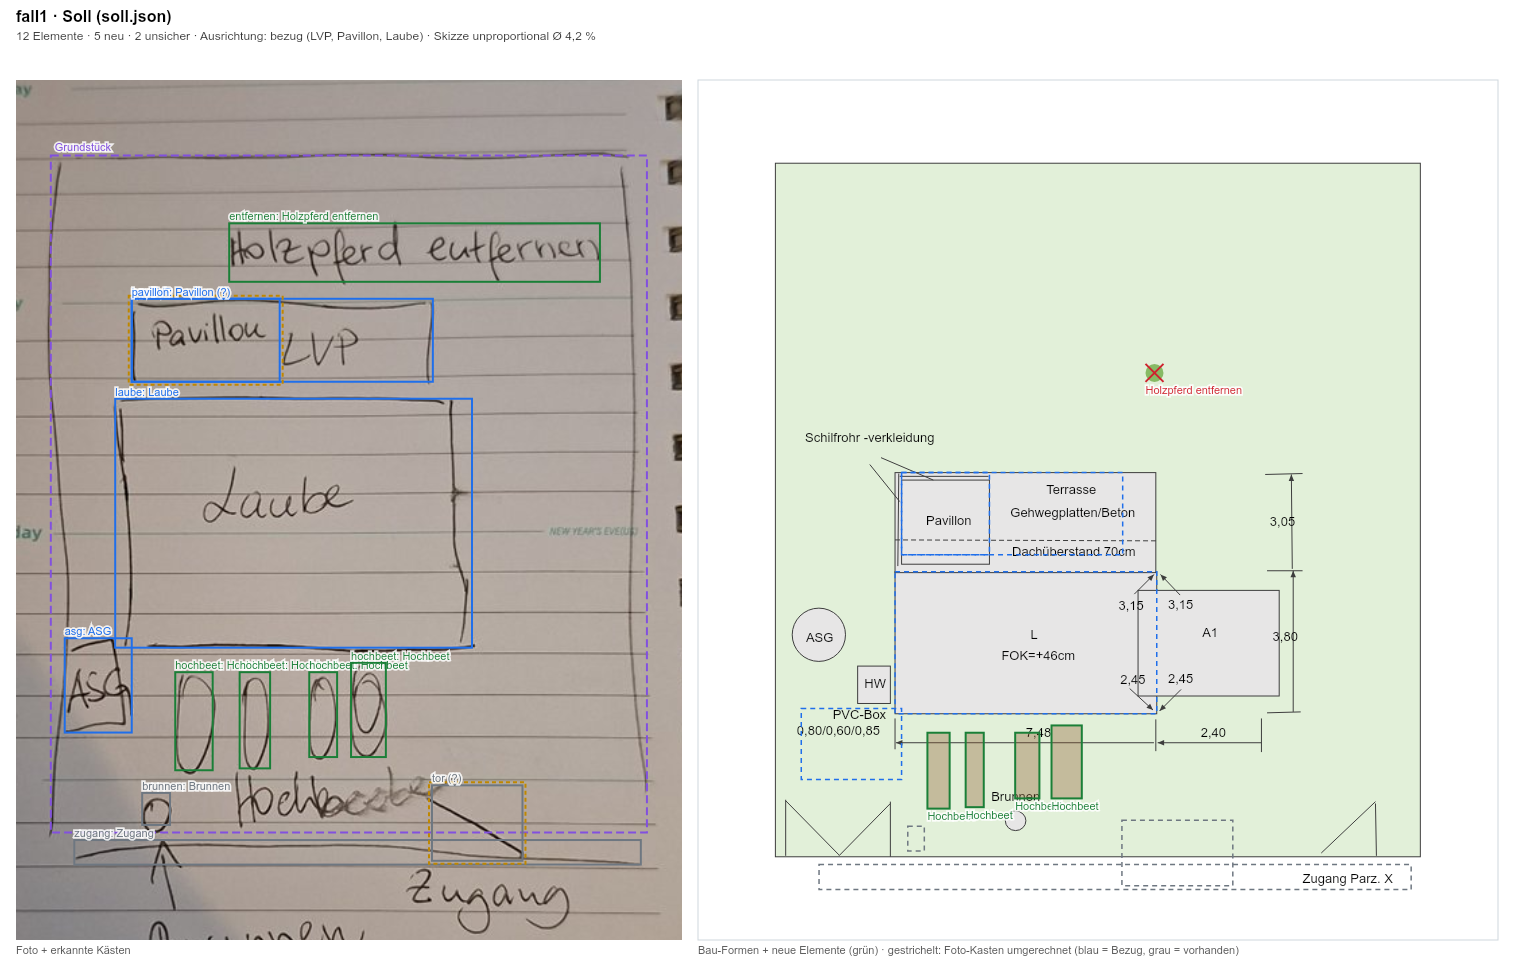
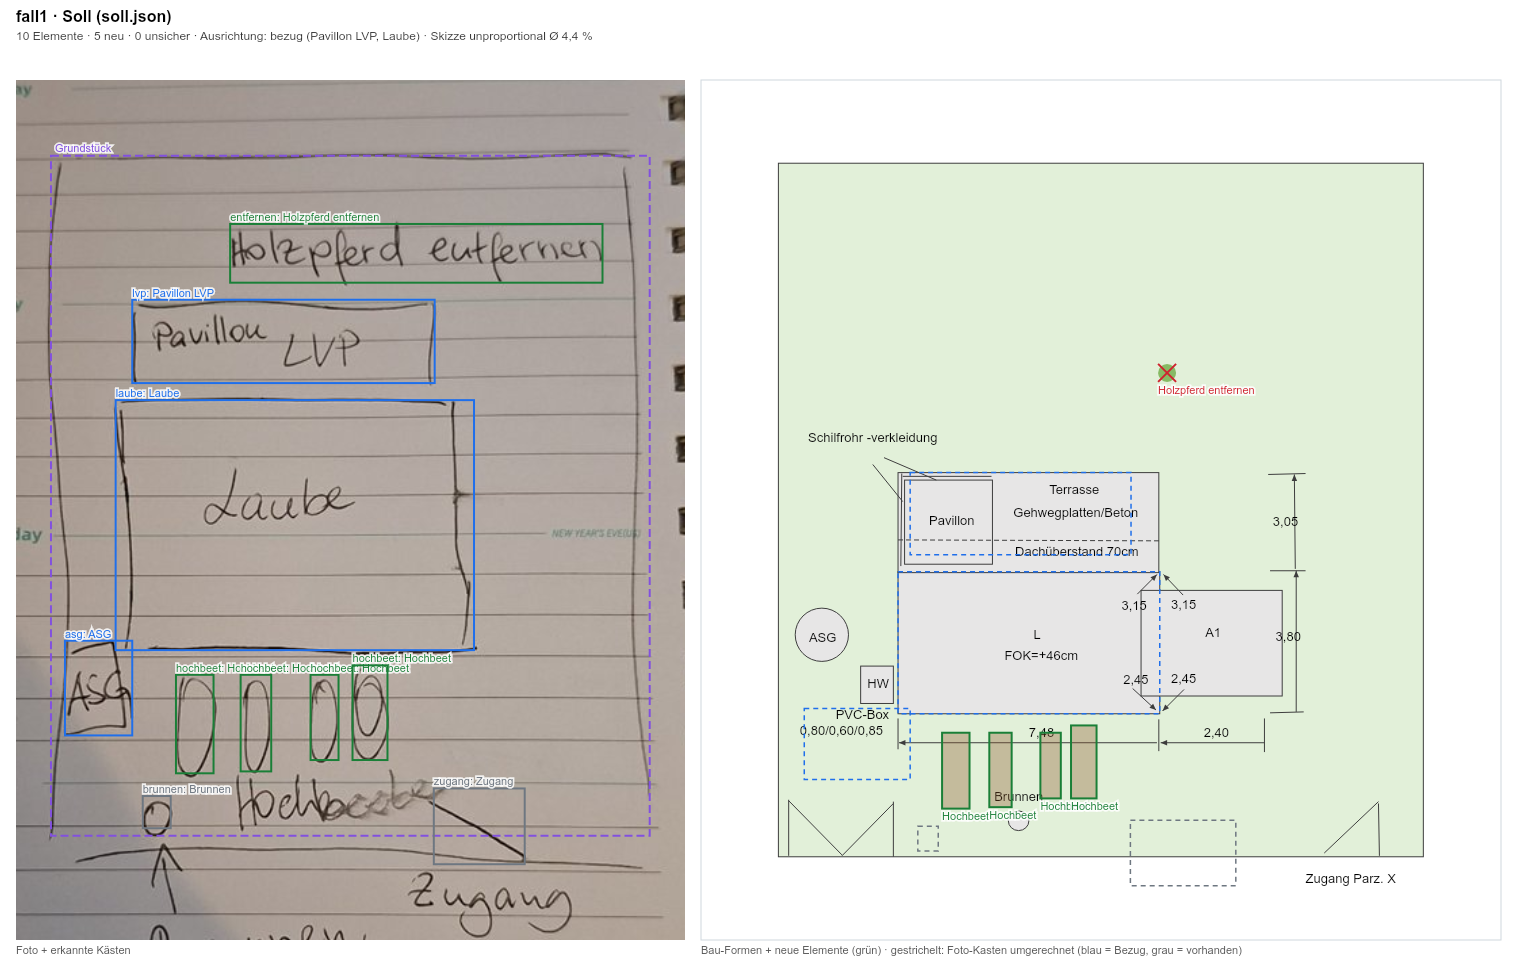
KI-Test Fall 1: soll.json nach Nachtrag (Grenze, Zugang, Pavillon LVP)

diff --git a/tools/ki-test/ergebnis-skizze.html b/tools/ki-test/ergebnis-skizze.html
@@ -15,9 +15,9 @@ ul{margin:6px 0 0;padding-left:20px;color:var(--fg)}li{margin:2px 0}
 .legende span{display:inline-block;margin-right:14px}.legende i{display:inline-block;width:12px;height:12px;margin-right:4px;vertical-align:-1px}
 </style></head><body>
 <h1>Skizzen-Testlauf (Assistent B)</h1>
-<p class="meta">Stand: 18.10.2026, 00:05:45 · Modellkette: gemini-3.8-flash → gemini-3.7-flash → gemini-3.6-flash → gemini-3.5-flash → gemini-3.5-flash-lite → gemini-3.1-flash-lite → gemini-3.1-flash-lite-preview → gemini-3-flash-preview · Prompt <code>skizze/prompt-skizze.md</code> (3115 Zeichen) · erzeugt mit <code>npm run ki-test-skizze</code></p>
+<p class="meta">Stand: 18.10.2026, 01:02:35 · Modellkette: gemini-3.8-flash → gemini-3.7-flash → gemini-3.6-flash → gemini-3.5-flash → gemini-3.5-flash-lite → gemini-3.1-flash-lite → gemini-3.1-flash-lite-preview → gemini-3-flash-preview · Prompt <code>skizze/prompt-skizze.md</code> (3115 Zeichen) · erzeugt mit <code>npm run ki-test-skizze</code></p>
 <p class="legende"><span><i style="background:#1f6feb"></i>Bezugsgebäude</span><span><i style="background:#6e7781"></i>schon in den Bau-Formen</span><span><i style="background:#1a7f37"></i>neu</span><span><i style="background:#bf8700"></i>unsicher (gestrichelt)</span><span><i style="background:#8250df"></i>Grundstücksrahmen</span></p>
 <p class="meta">gefunden = Soll-Elemente mit passendem Ist-Kasten (Typ ähnlich, Mittelpunkt nah) · Ø Abstand = Mittelpunkte im Foto (0–1000) · neu richtig = neu/vorhanden wie im Soll · Lagefehler neu = Abstand der neuen Elemente im Excel-Blatt zur Lage aus dem Soll, in % der Grundstücksgröße · „Skizze unproportional“ = Abweichung der Bezugsgebäude von einer linearen Abbildung (die App nutzt stückweise lineare Abbildung).</p>
-<div class="tab"><table><thead><tr><th>Fall</th><th>Modell</th><th>Antwort von</th><th>Zeit s</th><th>Elemente</th><th>gefunden</th><th>zusätzl.</th><th>Typ gleich</th><th>Beschr. ok</th><th>Ø Abstand</th><th>Ø IoU</th><th>unsicher Ist/Soll (getr.)</th><th>neu richtig</th><th>Lagefehler neu</th><th>Ausrichtung</th><th>Vermerk</th></tr></thead><tbody><tr><td>fall1</td><td>gemini-3.8-flash</td><td>=</td><td>27,5</td><td>10</td><td>10/12 (83 %)</td><td>0</td><td>9/10</td><td>10/10</td><td>4</td><td>0,84</td><td>4/2 (0)</td><td>10/10</td><td>2,0 %</td><td>bezug, Ø 4,5 %</td><td></td></tr><tr><td>fall1</td><td>gemini-3.7-flash</td><td>=</td><td>12,2</td><td>10</td><td>10/12 (83 %)</td><td>0</td><td>9/10</td><td>10/10</td><td>3</td><td>0,85</td><td>4/2 (0)</td><td>10/10</td><td>2,0 %</td><td>bezug, Ø 4,4 %</td><td></td></tr><tr><td>fall1</td><td>gemini-3.6-flash</td><td>=</td><td>11,1</td><td>10</td><td>10/12 (83 %)</td><td>0</td><td>9/10</td><td>10/10</td><td>5</td><td>0,80</td><td>0/2 (0)</td><td>10/10</td><td>2,3 %</td><td>bezug, Ø 4,2 %</td><td></td></tr><tr><td>fall1</td><td>gemini-3.5-flash</td><td>=</td><td>13,3</td><td>10</td><td>10/12 (83 %)</td><td>0</td><td>9/10</td><td>10/10</td><td>8</td><td>0,72</td><td>0/2 (0)</td><td>10/10</td><td>2,0 %</td><td>bezug, Ø 4,3 %</td><td></td></tr><tr><td>fall1</td><td>gemini-3.5-flash-lite</td><td>=</td><td>2,7</td><td>11</td><td>10/12 (83 %)</td><td>1</td><td>9/10</td><td>7/10</td><td>37</td><td>0,21</td><td>1/2 (0)</td><td>10/10</td><td>5,4 %</td><td>bezug, Ø 4,1 %</td><td></td></tr><tr><td>fall1</td><td>gemini-3.1-flash-lite</td><td>=</td><td>4,6</td><td>10</td><td>10/12 (83 %)</td><td>0</td><td>9/10</td><td>10/10</td><td>38</td><td>0,27</td><td>0/2 (0)</td><td>10/10</td><td>2,4 %</td><td>bezug, Ø 4,3 %</td><td></td></tr><tr><td>fall1</td><td>gemini-3.1-flash-lite-preview</td><td>=</td><td>2,8</td><td>10</td><td>10/12 (83 %)</td><td>0</td><td>9/10</td><td>10/10</td><td>26</td><td>0,47</td><td>0/2 (0)</td><td>10/10</td><td>2,9 %</td><td>bezug, Ø 4,5 %</td><td></td></tr><tr><td>fall1</td><td>gemini-3-flash-preview</td><td>=</td><td>12,8</td><td>10</td><td>10/12 (83 %)</td><td>0</td><td>9/10</td><td>10/10</td><td>21</td><td>0,61</td><td>0/2 (0)</td><td>10/10</td><td>2,6 %</td><td>bezug, Ø 4,1 %</td><td></td></tr></tbody></table></div>
-<h2>fall1</h2><p>Formen: <code>bau-formen.json</code></p><figure><figcaption><b>Soll</b> (soll.json, Entwurf)</figcaption><a href="ergebnis-skizze/fall1/_soll.png"><img src="ergebnis-skizze/fall1/_soll.png" alt="Soll"></a></figure><figure><figcaption><b>gemini-3.8-flash</b></figcaption><a href="ergebnis-skizze/fall1/gemini-3.8-flash.png"><img src="ergebnis-skizze/fall1/gemini-3.8-flash.png" loading="lazy" alt="Vergleich gemini-3.8-flash"></a><ul><li><b>Fehlt:</b> pavillon „Pavillon“, zugang „Zugang“</li><li><b>Typ:</b> tor → zugang</li><li><b>Ausrichtung:</b> Bezug Pavillon LVP ↔ Terrasse: nur y genutzt (deckungsgleich mit oder widersprüchlich zu größerem Gebäude); Bezug ASG ↔ ASG: keine Kante genutzt (deckungsgleich mit oder widersprüchlich zu größerem Gebäude)</li></ul></figure><figure><figcaption><b>gemini-3.7-flash</b></figcaption><a href="ergebnis-skizze/fall1/gemini-3.7-flash.png"><img src="ergebnis-skizze/fall1/gemini-3.7-flash.png" loading="lazy" alt="Vergleich gemini-3.7-flash"></a><ul><li><b>Fehlt:</b> pavillon „Pavillon“, zugang „Zugang“</li><li><b>Typ:</b> tor → zugang</li><li><b>Ausrichtung:</b> Bezug Pavillon LVP ↔ Terrasse: nur y genutzt (deckungsgleich mit oder widersprüchlich zu größerem Gebäude); Bezug ASG ↔ ASG: keine Kante genutzt (deckungsgleich mit oder widersprüchlich zu größerem Gebäude)</li></ul></figure><figure><figcaption><b>gemini-3.6-flash</b></figcaption><a href="ergebnis-skizze/fall1/gemini-3.6-flash.png"><img src="ergebnis-skizze/fall1/gemini-3.6-flash.png" loading="lazy" alt="Vergleich gemini-3.6-flash"></a><ul><li><b>Fehlt:</b> pavillon „Pavillon“, zugang „Zugang“</li><li><b>Typ:</b> tor → zugang</li><li><b>Ausrichtung:</b> Bezug Pavillon LVP ↔ Terrasse: nur y genutzt (deckungsgleich mit oder widersprüchlich zu größerem Gebäude); Bezug ASG ↔ ASG: keine Kante genutzt (deckungsgleich mit oder widersprüchlich zu größerem Gebäude)</li></ul></figure><figure><figcaption><b>gemini-3.5-flash</b></figcaption><a href="ergebnis-skizze/fall1/gemini-3.5-flash.png"><img src="ergebnis-skizze/fall1/gemini-3.5-flash.png" loading="lazy" alt="Vergleich gemini-3.5-flash"></a><ul><li><b>Fehlt:</b> pavillon „Pavillon“, zugang „Zugang“</li><li><b>Typ:</b> tor → zugang</li><li><b>Ausrichtung:</b> Bezug Pavillon LVP ↔ Terrasse: nur y genutzt (deckungsgleich mit oder widersprüchlich zu größerem Gebäude); Bezug ASG ↔ ASG: keine Kante genutzt (deckungsgleich mit oder widersprüchlich zu größerem Gebäude)</li></ul></figure><figure><figcaption><b>gemini-3.5-flash-lite</b></figcaption><a href="ergebnis-skizze/fall1/gemini-3.5-flash-lite.png"><img src="ergebnis-skizze/fall1/gemini-3.5-flash-lite.png" loading="lazy" alt="Vergleich gemini-3.5-flash-lite"></a><ul><li><b>Fehlt:</b> lvp „LVP“, zugang „Zugang“</li><li><b>Zusätzlich:</b> hochbeet „“</li><li><b>Typ:</b> tor → zugang</li><li><b>Ausrichtung:</b> Bezug Pavillon LVP ↔ Terrasse: nur y genutzt (deckungsgleich mit oder widersprüchlich zu größerem Gebäude); Bezug ASG ↔ ASG: keine Kante genutzt (deckungsgleich mit oder widersprüchlich zu größerem Gebäude)</li></ul></figure><figure><figcaption><b>gemini-3.1-flash-lite</b></figcaption><a href="ergebnis-skizze/fall1/gemini-3.1-flash-lite.png"><img src="ergebnis-skizze/fall1/gemini-3.1-flash-lite.png" loading="lazy" alt="Vergleich gemini-3.1-flash-lite"></a><ul><li><b>Fehlt:</b> lvp „LVP“, zugang „Zugang“</li><li><b>Typ:</b> tor → zugang</li><li><b>Ausrichtung:</b> Bezug Pavillon LVP ↔ Terrasse: nur y genutzt (deckungsgleich mit oder widersprüchlich zu größerem Gebäude); Bezug ASG ↔ ASG: keine Kante genutzt (deckungsgleich mit oder widersprüchlich zu größerem Gebäude)</li></ul></figure><figure><figcaption><b>gemini-3.1-flash-lite-preview</b></figcaption><a href="ergebnis-skizze/fall1/gemini-3.1-flash-lite-preview.png"><img src="ergebnis-skizze/fall1/gemini-3.1-flash-lite-preview.png" loading="lazy" alt="Vergleich gemini-3.1-flash-lite-preview"></a><ul><li><b>Fehlt:</b> lvp „LVP“, zugang „Zugang“</li><li><b>Typ:</b> tor → zugang</li><li><b>Ausrichtung:</b> Bezug Pavillon LVP ↔ Terrasse: nur y genutzt (deckungsgleich mit oder widersprüchlich zu größerem Gebäude); Bezug ASG ↔ ASG: keine Kante genutzt (deckungsgleich mit oder widersprüchlich zu größerem Gebäude)</li></ul></figure><figure><figcaption><b>gemini-3-flash-preview</b></figcaption><a href="ergebnis-skizze/fall1/gemini-3-flash-preview.png"><img src="ergebnis-skizze/fall1/gemini-3-flash-preview.png" loading="lazy" alt="Vergleich gemini-3-flash-preview"></a><ul><li><b>Fehlt:</b> lvp „LVP“, zugang „Zugang“</li><li><b>Typ:</b> tor → zugang</li><li><b>Ausrichtung:</b> Bezug Pavillon LVP ↔ Terrasse: nur y genutzt (deckungsgleich mit oder widersprüchlich zu größerem Gebäude); Bezug ASG ↔ ASG: keine Kante genutzt (deckungsgleich mit oder widersprüchlich zu größerem Gebäude)</li></ul></figure>
+<div class="tab"><table><thead><tr><th>Fall</th><th>Modell</th><th>Antwort von</th><th>Zeit s</th><th>Elemente</th><th>gefunden</th><th>zusätzl.</th><th>Typ gleich</th><th>Beschr. ok</th><th>Ø Abstand</th><th>Ø IoU</th><th>unsicher Ist/Soll (getr.)</th><th>neu richtig</th><th>Lagefehler neu</th><th>Ausrichtung</th><th>Vermerk</th></tr></thead><tbody><tr><td>fall1</td><td>gemini-3.8-flash</td><td>=</td><td>27,5</td><td>10</td><td>10/10 (100 %)</td><td>0</td><td>10/10</td><td>10/10</td><td>4</td><td>0,84</td><td>4/0 (0)</td><td>10/10</td><td>0,3 %</td><td>bezug, Ø 4,5 %</td><td></td></tr><tr><td>fall1</td><td>gemini-3.7-flash</td><td>=</td><td>12,2</td><td>10</td><td>10/10 (100 %)</td><td>0</td><td>10/10</td><td>10/10</td><td>3</td><td>0,85</td><td>4/0 (0)</td><td>10/10</td><td>0,6 %</td><td>bezug, Ø 4,4 %</td><td></td></tr><tr><td>fall1</td><td>gemini-3.6-flash</td><td>=</td><td>11,1</td><td>10</td><td>10/10 (100 %)</td><td>0</td><td>10/10</td><td>10/10</td><td>5</td><td>0,80</td><td>0/0 (0)</td><td>10/10</td><td>1,0 %</td><td>bezug, Ø 4,2 %</td><td></td></tr><tr><td>fall1</td><td>gemini-3.5-flash</td><td>=</td><td>13,3</td><td>10</td><td>10/10 (100 %)</td><td>0</td><td>10/10</td><td>10/10</td><td>8</td><td>0,72</td><td>0/0 (0)</td><td>10/10</td><td>0,9 %</td><td>bezug, Ø 4,3 %</td><td></td></tr><tr><td>fall1</td><td>gemini-3.5-flash-lite</td><td>=</td><td>2,7</td><td>11</td><td>9/10 (90 %)</td><td>2</td><td>9/9</td><td>6/9</td><td>32</td><td>0,22</td><td>1/0 (0)</td><td>9/9</td><td>5,2 %</td><td>bezug, Ø 4,1 %</td><td></td></tr><tr><td>fall1</td><td>gemini-3.1-flash-lite</td><td>=</td><td>4,6</td><td>10</td><td>9/10 (90 %)</td><td>1</td><td>9/9</td><td>9/9</td><td>33</td><td>0,27</td><td>0/0 (0)</td><td>9/9</td><td>1,8 %</td><td>bezug, Ø 4,3 %</td><td></td></tr><tr><td>fall1</td><td>gemini-3.1-flash-lite-preview</td><td>=</td><td>2,8</td><td>10</td><td>9/10 (90 %)</td><td>1</td><td>9/9</td><td>9/9</td><td>20</td><td>0,47</td><td>0/0 (0)</td><td>9/9</td><td>2,4 %</td><td>bezug, Ø 4,5 %</td><td></td></tr><tr><td>fall1</td><td>gemini-3-flash-preview</td><td>=</td><td>12,8</td><td>10</td><td>9/10 (90 %)</td><td>1</td><td>9/9</td><td>9/9</td><td>13</td><td>0,63</td><td>0/0 (0)</td><td>9/9</td><td>1,0 %</td><td>bezug, Ø 4,1 %</td><td></td></tr></tbody></table></div>
+<h2>fall1</h2><p>Formen: <code>bau-formen.json</code></p><figure><figcaption><b>Soll</b> (soll.json, Entwurf)</figcaption><a href="ergebnis-skizze/fall1/_soll.png"><img src="ergebnis-skizze/fall1/_soll.png" alt="Soll"></a></figure><figure><figcaption><b>gemini-3.8-flash</b></figcaption><a href="ergebnis-skizze/fall1/gemini-3.8-flash.png"><img src="ergebnis-skizze/fall1/gemini-3.8-flash.png" loading="lazy" alt="Vergleich gemini-3.8-flash"></a><ul><li><b>Ausrichtung:</b> Bezug Pavillon LVP ↔ Terrasse: nur y genutzt (deckungsgleich mit oder widersprüchlich zu größerem Gebäude); Bezug ASG ↔ ASG: keine Kante genutzt (deckungsgleich mit oder widersprüchlich zu größerem Gebäude)</li></ul></figure><figure><figcaption><b>gemini-3.7-flash</b></figcaption><a href="ergebnis-skizze/fall1/gemini-3.7-flash.png"><img src="ergebnis-skizze/fall1/gemini-3.7-flash.png" loading="lazy" alt="Vergleich gemini-3.7-flash"></a><ul><li><b>Ausrichtung:</b> Bezug Pavillon LVP ↔ Terrasse: nur y genutzt (deckungsgleich mit oder widersprüchlich zu größerem Gebäude); Bezug ASG ↔ ASG: keine Kante genutzt (deckungsgleich mit oder widersprüchlich zu größerem Gebäude)</li></ul></figure><figure><figcaption><b>gemini-3.6-flash</b></figcaption><a href="ergebnis-skizze/fall1/gemini-3.6-flash.png"><img src="ergebnis-skizze/fall1/gemini-3.6-flash.png" loading="lazy" alt="Vergleich gemini-3.6-flash"></a><ul><li><b>Ausrichtung:</b> Bezug Pavillon LVP ↔ Terrasse: nur y genutzt (deckungsgleich mit oder widersprüchlich zu größerem Gebäude); Bezug ASG ↔ ASG: keine Kante genutzt (deckungsgleich mit oder widersprüchlich zu größerem Gebäude)</li></ul></figure><figure><figcaption><b>gemini-3.5-flash</b></figcaption><a href="ergebnis-skizze/fall1/gemini-3.5-flash.png"><img src="ergebnis-skizze/fall1/gemini-3.5-flash.png" loading="lazy" alt="Vergleich gemini-3.5-flash"></a><ul><li><b>Ausrichtung:</b> Bezug Pavillon LVP ↔ Terrasse: nur y genutzt (deckungsgleich mit oder widersprüchlich zu größerem Gebäude); Bezug ASG ↔ ASG: keine Kante genutzt (deckungsgleich mit oder widersprüchlich zu größerem Gebäude)</li></ul></figure><figure><figcaption><b>gemini-3.5-flash-lite</b></figcaption><a href="ergebnis-skizze/fall1/gemini-3.5-flash-lite.png"><img src="ergebnis-skizze/fall1/gemini-3.5-flash-lite.png" loading="lazy" alt="Vergleich gemini-3.5-flash-lite"></a><ul><li><b>Fehlt:</b> lvp „Pavillon LVP“</li><li><b>Zusätzlich:</b> pavillon „Pavillon LVP“, hochbeet „“</li><li><b>Ausrichtung:</b> Bezug Pavillon LVP ↔ Terrasse: nur y genutzt (deckungsgleich mit oder widersprüchlich zu größerem Gebäude); Bezug ASG ↔ ASG: keine Kante genutzt (deckungsgleich mit oder widersprüchlich zu größerem Gebäude)</li></ul></figure><figure><figcaption><b>gemini-3.1-flash-lite</b></figcaption><a href="ergebnis-skizze/fall1/gemini-3.1-flash-lite.png"><img src="ergebnis-skizze/fall1/gemini-3.1-flash-lite.png" loading="lazy" alt="Vergleich gemini-3.1-flash-lite"></a><ul><li><b>Fehlt:</b> lvp „Pavillon LVP“</li><li><b>Zusätzlich:</b> pavillon „Pavillon LVP“</li><li><b>Ausrichtung:</b> Bezug Pavillon LVP ↔ Terrasse: nur y genutzt (deckungsgleich mit oder widersprüchlich zu größerem Gebäude); Bezug ASG ↔ ASG: keine Kante genutzt (deckungsgleich mit oder widersprüchlich zu größerem Gebäude)</li></ul></figure><figure><figcaption><b>gemini-3.1-flash-lite-preview</b></figcaption><a href="ergebnis-skizze/fall1/gemini-3.1-flash-lite-preview.png"><img src="ergebnis-skizze/fall1/gemini-3.1-flash-lite-preview.png" loading="lazy" alt="Vergleich gemini-3.1-flash-lite-preview"></a><ul><li><b>Fehlt:</b> lvp „Pavillon LVP“</li><li><b>Zusätzlich:</b> pavillon „Pavillon LVP“</li><li><b>Ausrichtung:</b> Bezug Pavillon LVP ↔ Terrasse: nur y genutzt (deckungsgleich mit oder widersprüchlich zu größerem Gebäude); Bezug ASG ↔ ASG: keine Kante genutzt (deckungsgleich mit oder widersprüchlich zu größerem Gebäude)</li></ul></figure><figure><figcaption><b>gemini-3-flash-preview</b></figcaption><a href="ergebnis-skizze/fall1/gemini-3-flash-preview.png"><img src="ergebnis-skizze/fall1/gemini-3-flash-preview.png" loading="lazy" alt="Vergleich gemini-3-flash-preview"></a><ul><li><b>Fehlt:</b> lvp „Pavillon LVP“</li><li><b>Zusätzlich:</b> pavillon „Pavillon LVP“</li><li><b>Ausrichtung:</b> Bezug Pavillon LVP ↔ Terrasse: nur y genutzt (deckungsgleich mit oder widersprüchlich zu größerem Gebäude); Bezug ASG ↔ ASG: keine Kante genutzt (deckungsgleich mit oder widersprüchlich zu größerem Gebäude)</li></ul></figure>
 </body></html>

diff --git a/tools/ki-test/faelle-skizze/fall1/README.md b/tools/ki-test/faelle-skizze/fall1/README.md
@@ -3,7 +3,10 @@
 - `eingabe.jpg` – Handskizze Außenanlage/Aufwuchs (Foto, Notizbuch). Inhalt laut Simon:
   oben „Holzpferd entfernen“, „Pavillon“ + „LVP“, „Laube“, links „ASG“, unter der Laube
   4 Hochbeete (Ellipsen, Beschriftung „Hochbeete“), Kreis „Brunnen“ mit Pfeil,
-  Linie unten = Zugang.
+  schräger Strich unten rechts = Zugang/Tor. Die lange Linie unten ist die
+  Grundstücksgrenze (kein Element). „Pavillon LVP“ ist ein Kasten mit zwei Wörtern.
+  Streng bewertet werden nur die neuen Elemente (Hochbeete, Holzpferd entfernen,
+  Brunnen-Pfeil, Zugang); was schon in den Bau-Formen steckt, zählt nicht streng.
 - `bau-formen.json` – Formen aus Blatt „Skizze Bau“ der Bau-Excel (nur Geometrie und
   Formtexte, keine Zellinhalte, keine Namen; Koordinaten in EMU ab Blattecke).
 - `aussen-vorher.json` – Blatt „Skizze Außenanlage-Aufwuchs“, wie es der Bau-Wertermittler
